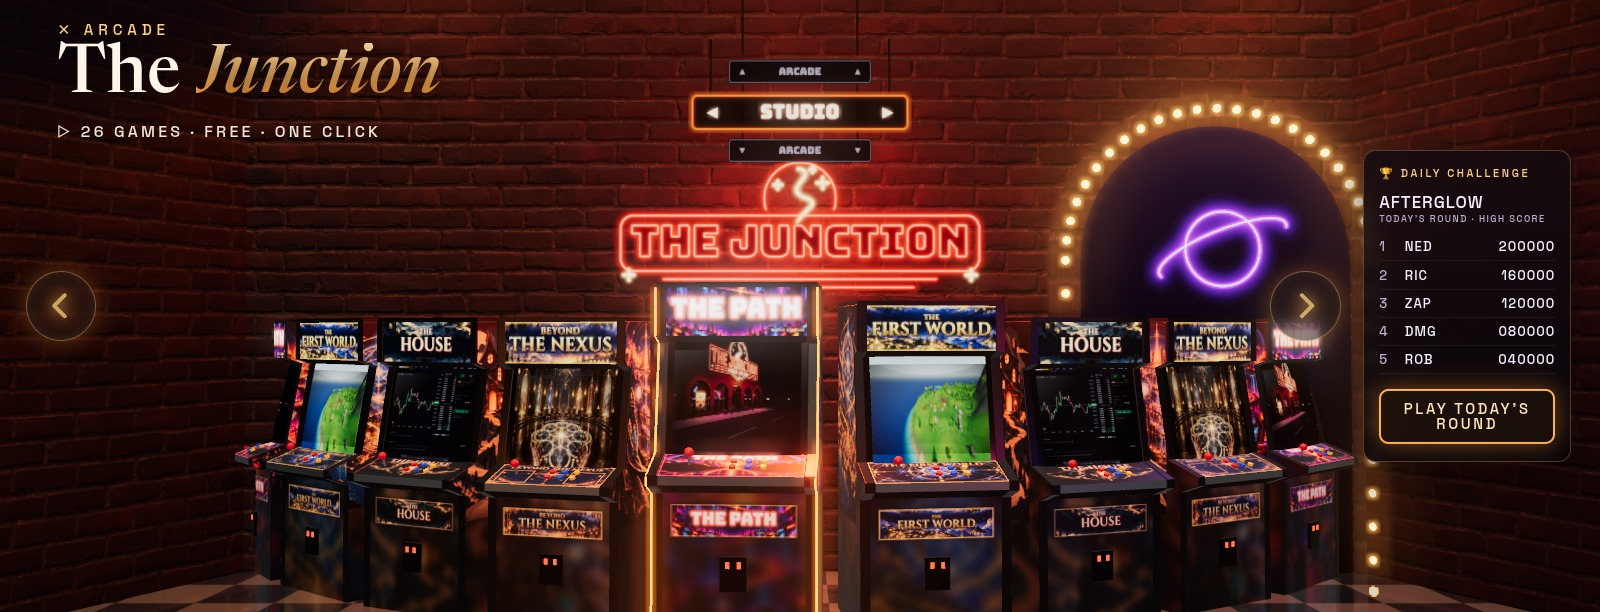
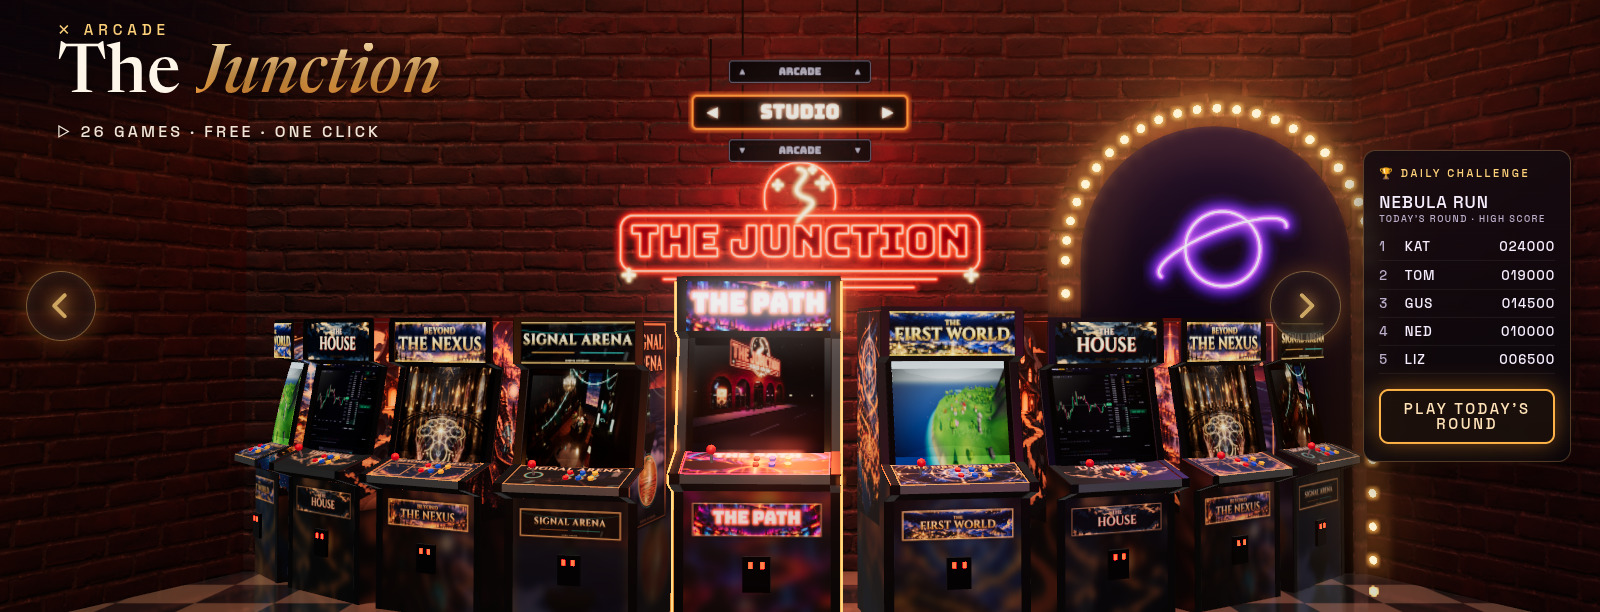
Arcade: home band poster re-rendered (Signal Arena now stands left of THE PATH)

diff --git a/arcade/README.md b/arcade/README.md
@@ -49,4 +49,4 @@ Mount: `mountJunctionBand(el, { arcadeUrl: '/arcade/', engine: '/arcade/cabinet/
 ## Signal Arena on the studio shelf (2026-10-31)
 - A fifth web STUDIO cabinet, opening `/signal-arena/`. Web only (`WEB_ONLY` in `index.html`): the TV's room agent has no launcher for it. Source change: `the-junction-test` branch `signal-arena`; the same lines are carried into `index.html` here, LOG `data-version` v1.5.
 - Art: `cab/studio-signal-arena_{marquee,side,panel}.jpg` (recipe in `tools/cabinets/compose.html`; `tools/cabinets/atlas-compose.mjs` builds them on Atlas), tube `assets/studio/card-signal-arena.webp`.
-- Re-render `band/aisle-poster.jpg` only if the first view changes (it opens on THE PATH, so it doesn't).
+- `band/aisle-poster.jpg` re-rendered (Atlas, embed mode, 1600x612): the aisle wraps, so Signal Arena now stands left of THE PATH.
